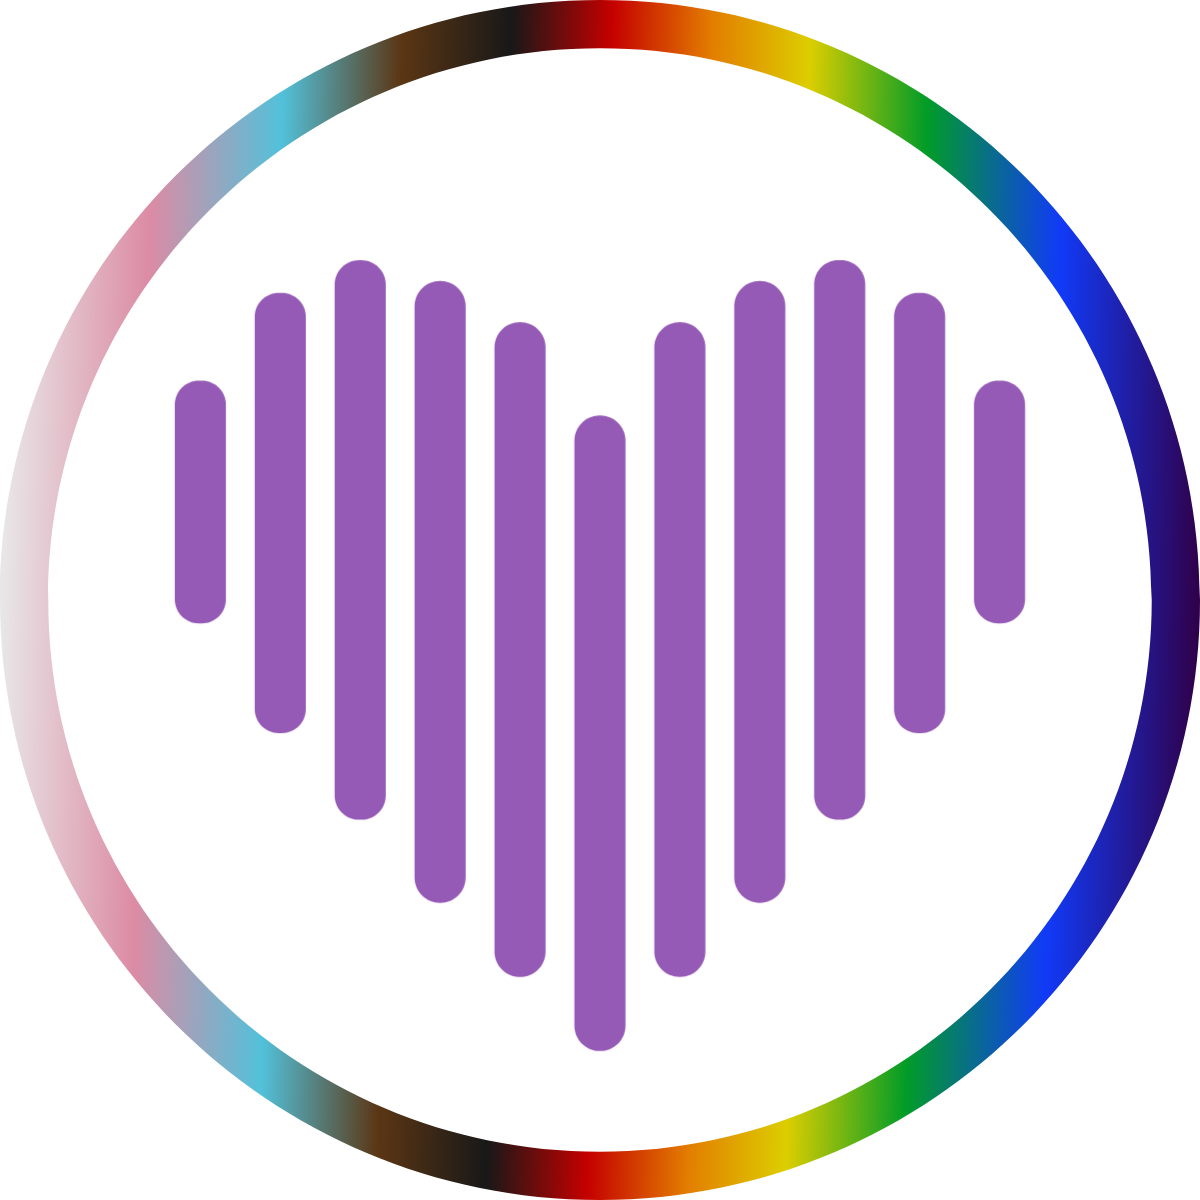
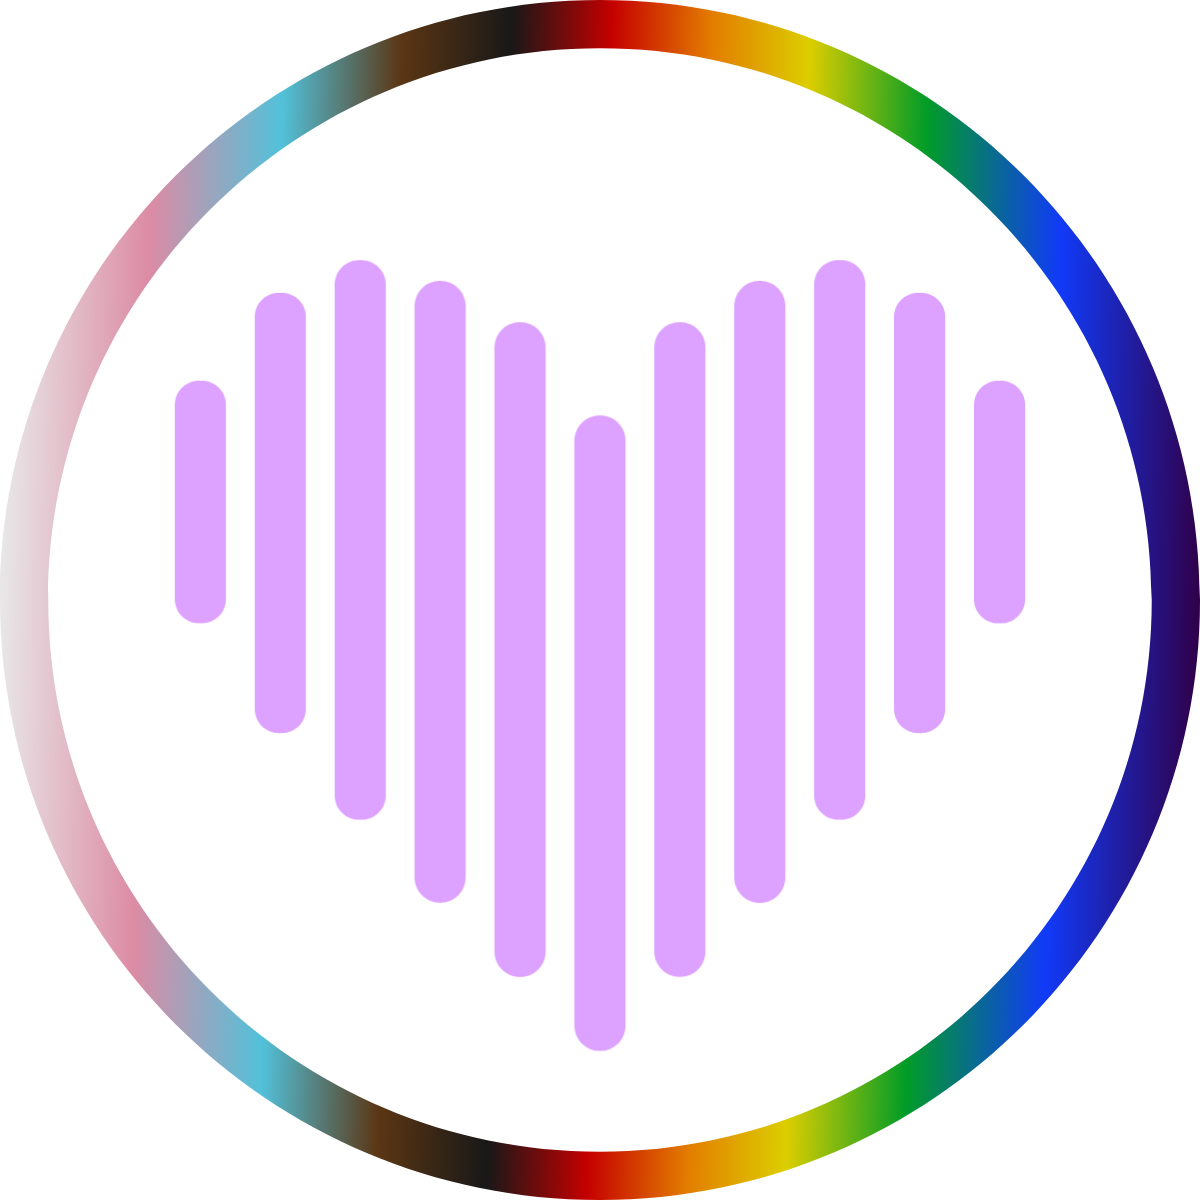
Uses optimal version of picture

Changed region(s): [[0.1233, 0.2158, 0.8633, 0.8942]]

diff --git a/web/src/components/links/links.styles.js b/web/src/components/links/links.styles.js
@@ -78,7 +78,6 @@ const linksStyles = {
   logoImage: {
     height: imageDiameter,
     width: imageDiameter,
-    // background: `linear-gradient(to bottom, ${theme.palette.background.darkPurple}, ${theme.palette.background.darkerPurple})`,
     backgroundColor: theme.palette.background.darkPurple,
   },
   titleTextContainer: {

diff --git a/web/src/components/links/links.jsx b/web/src/components/links/links.jsx
@@ -12,7 +12,6 @@ import {
   Typography,
 } from "@mui/material";
 import Logo from "@/assets/images/purple-heart-progress-circle.png";
-// import Logo from "@/assets/images/progress-circle-heart.png";
 import DiscordIcon from "@/components/common/icons/discord";
 import {
   Diversity1,
